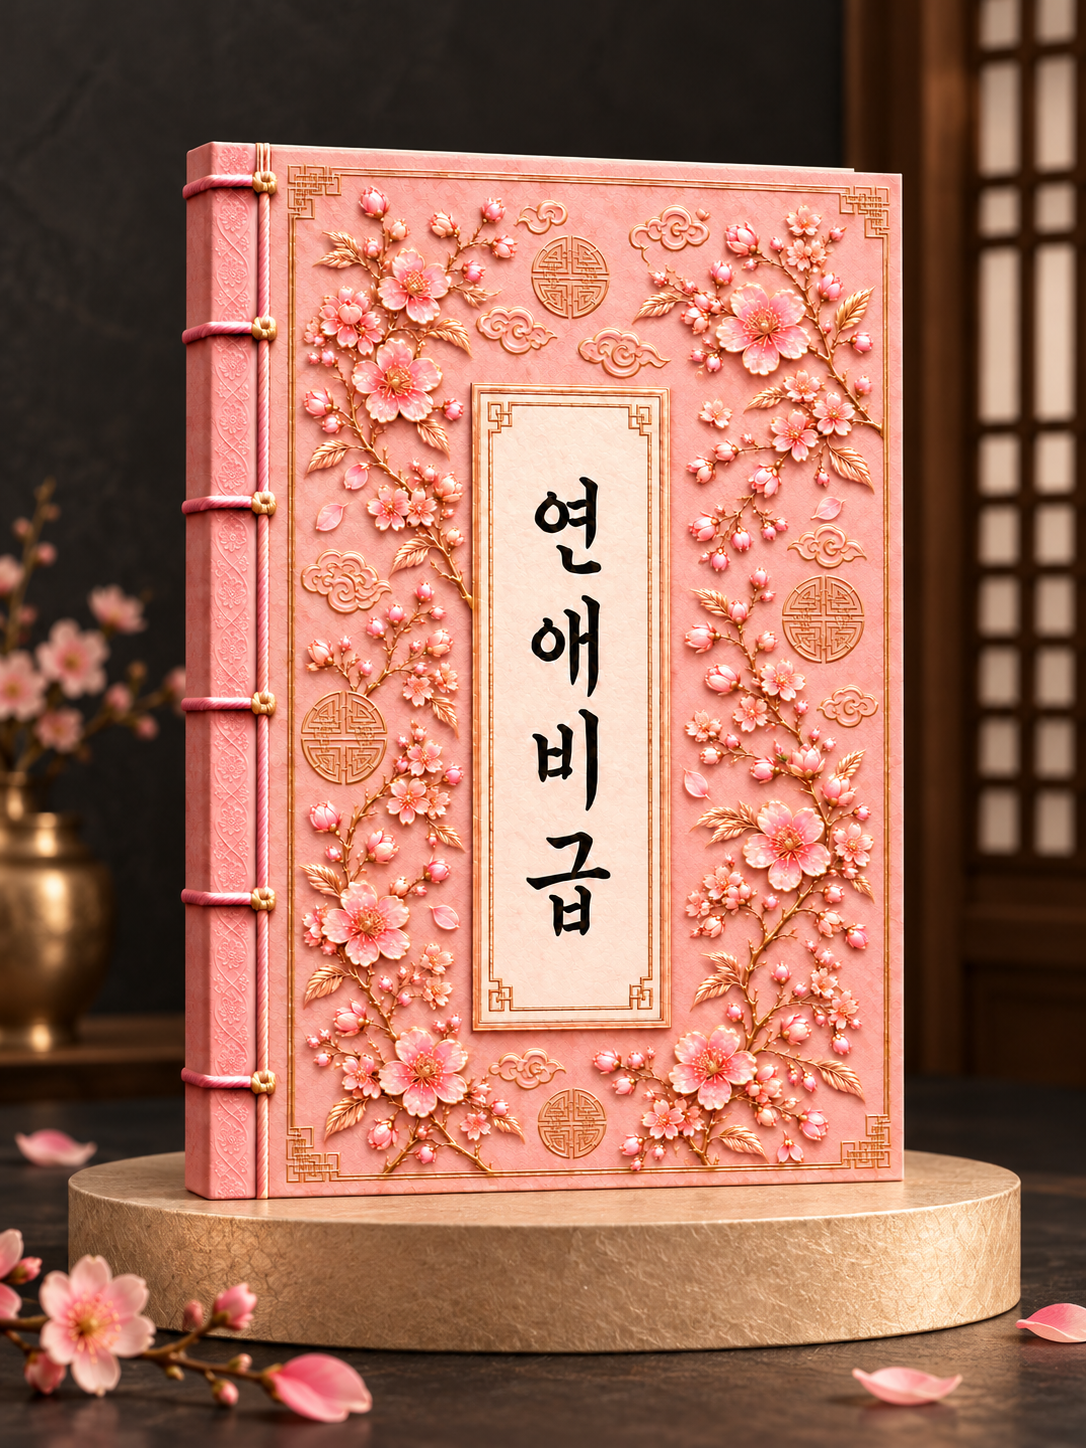
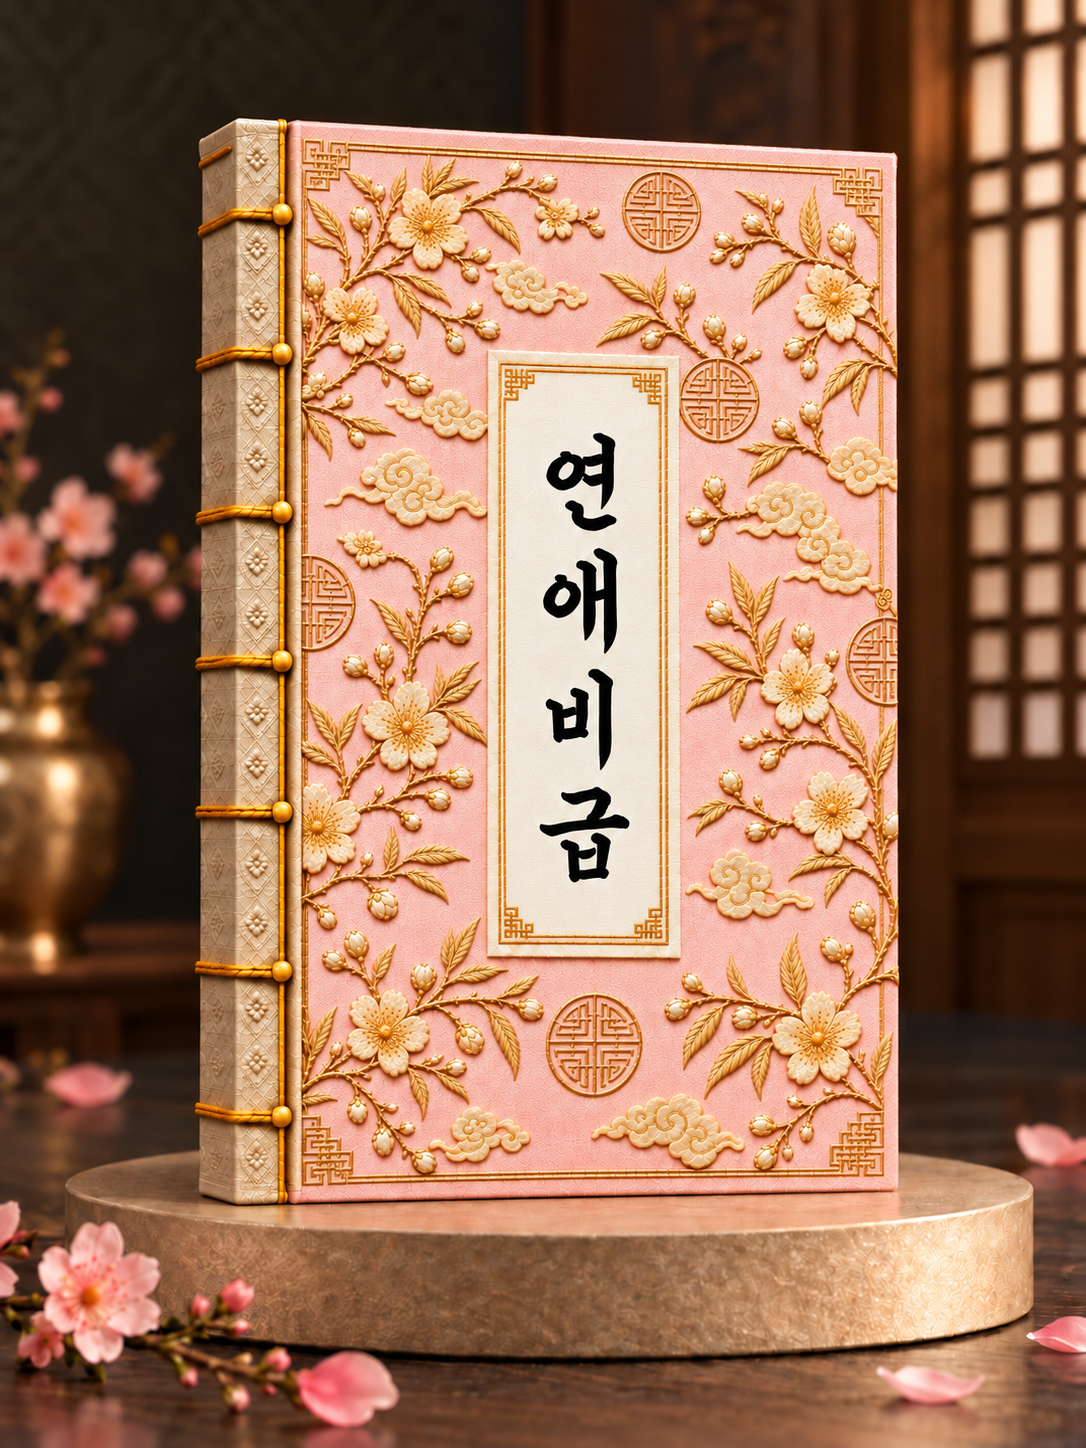
feat: update book1 and 3-in-1 package mockups with latest high-res images and cache busting

diff --git a/app/reports/love-secret/page.tsx b/app/reports/love-secret/page.tsx
@@ -101,12 +101,12 @@ function HybridImageSlot({
   )
 }
 
-// 📦 3종 올인원 세트 패키지 목업 이미지 (추후 교체 시 아래 경로만 변경)
-const PACKAGE_MOCKUP_IMAGE = '/images/love-secret/package-mockup.png'
+// 📦 3종 올인원 세트 패키지 목업 이미지 (캐시 방지 버전 쿼리 적용)
+const PACKAGE_MOCKUP_IMAGE = '/images/love-secret/package-mockup.png?v=20261101_v2'
 
-// 📚 개별 도서 3:4 목업 이미지 (추후 개별 교체 시 아래 경로만 변경)
+// 📚 개별 도서 3:4 목업 이미지 (캐시 방지 버전 쿼리 적용)
 const BOOK_MOCKUPS = {
-  book1: '/images/love-secret/book1-love-mockup.png',       // Book 1: 피치핑크 꽃 장식 《연애비급 완전판》
+  book1: '/images/love-secret/book1-love-mockup.png?v=20261101_v2',       // Book 1: 최신 단독 책 목업 이미지
   book2: '/images/love-secret/book2-secret-mockup.png',     // Book 2: 금빛 열쇠 《매혹의 무의식 침투 프로토콜》
   book3: '/images/love-secret/book3-workbook-mockup.png',   // Book 3: 핫핑크 남녀 실루엣 《30일 매력 각성 워크북》
 }
@@ -797,8 +797,8 @@ export default function LoveSecretEbookPage() {
                       <Image
                         src={PACKAGE_MOCKUP_IMAGE}
                         alt="연애비급 3종 올인원 세트 패키지 목업: 연애비급 완전판, 매혹의 무의식 침투 프로토콜, 30일 매력 각성 워크북, 모바일 배경화면"
-                        width={1200}
-                        height={675}
+                        width={1672}
+                        height={941}
                         sizes="(max-width: 1024px) 100vw, 1152px"
                         className="w-full h-auto object-contain block transition-transform duration-500 group-hover:scale-[1.01]"
                         priority
@@ -1879,8 +1879,8 @@ export default function LoveSecretEbookPage() {
                 <Image
                   src={PACKAGE_MOCKUP_IMAGE}
                   alt="연애비급 3종 올인원 세트 패키지 목업 확대"
-                  width={1920}
-                  height={1080}
+                  width={1672}
+                  height={941}
                   className="w-full h-auto object-contain block"
                 />
               </div>

diff --git a/app/reports/love-secret/assets.ts b/app/reports/love-secret/assets.ts
@@ -40,7 +40,7 @@ export const loveSecretAssets: Record<string, LoveSecretAssetItem> = {
   // 3. Book 1: 연애비급 본편 표지 목업
   book1: {
     id: 'book1',
-    src: '/images/love-secret/book1-love-mockup.png',
+    src: '/images/love-secret/book1-love-mockup.png?v=20261101_v2',
     alt: 'Book 1. [정통 바이블] 연애비급 완전판 목업',
     aspectRatio: 'aspect-[3/4]',
     objectFit: 'contain',
